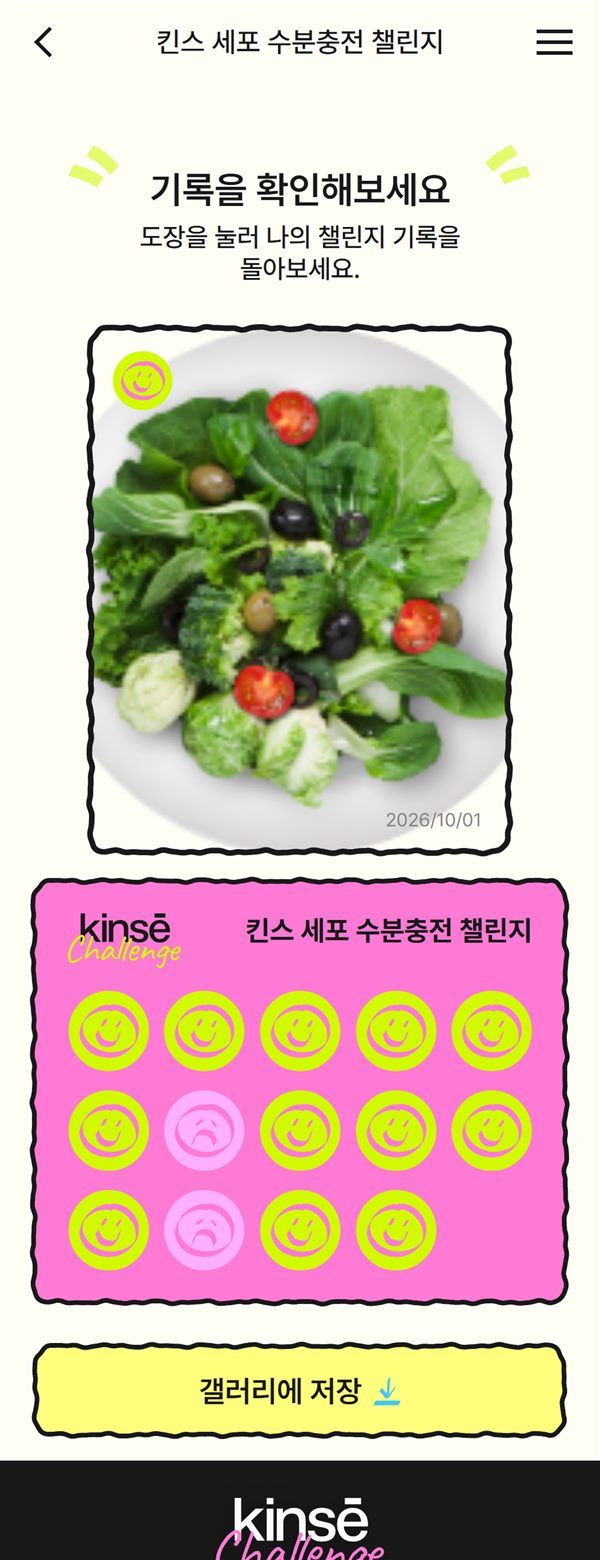
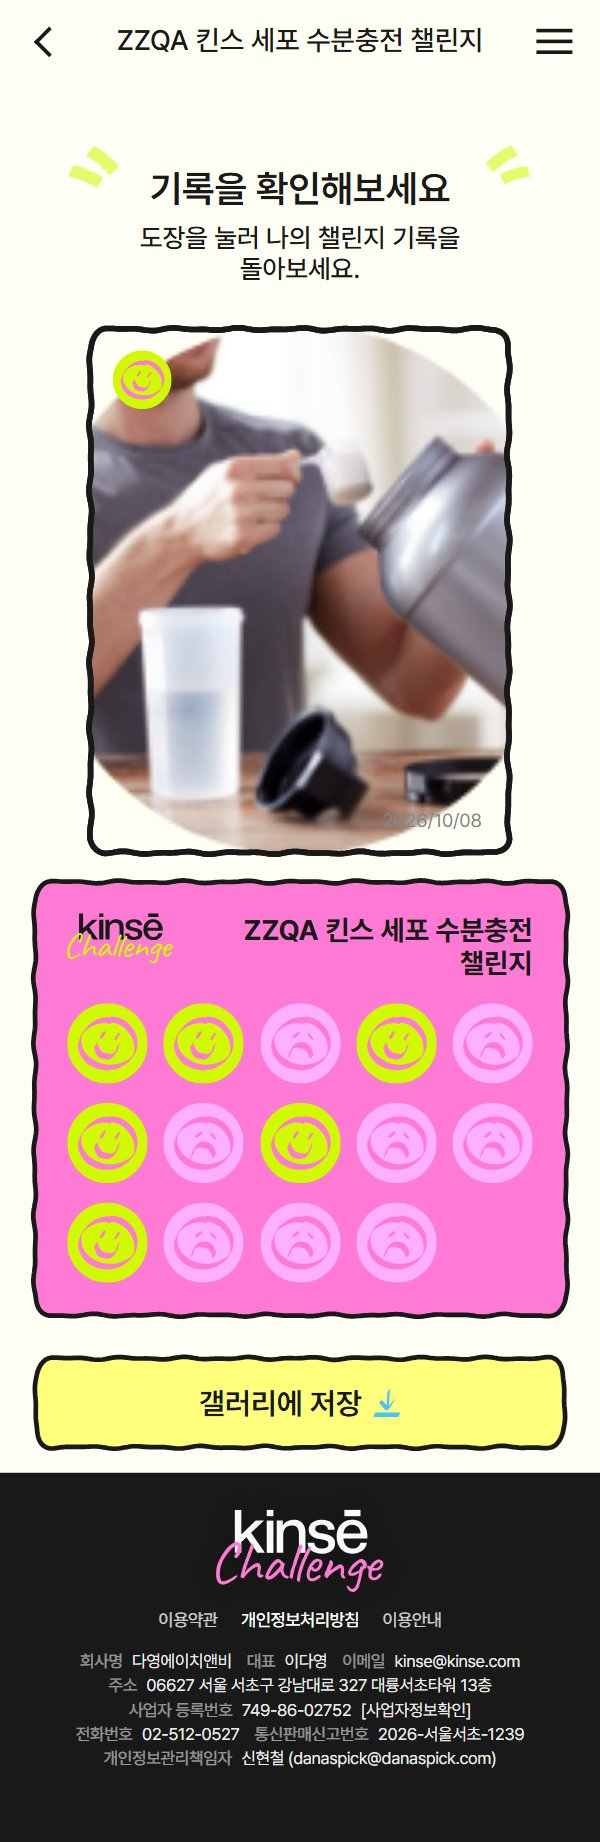
10/16 캡처 18장을 10/19 화면으로 다시 찍어 교체, 문서 날짜 10/19

diff --git a/server-screen-flow.html b/server-screen-flow.html
@@ -62,7 +62,7 @@
 <div class="wrap">
   <h1>메인 태스크별 화면 흐름 (서버)</h1>
   <p class="sub">지금 서버(FTP)에 작업된 사용자 화면을 <a href="figma-screen-flow.html">피그마 화면 흐름</a>과 같은 7단계로 정리 · 2026-10-19 서버 코드 기준</p>
-  <div class="info">글은 <b>10/19 서버 코드</b> 기준입니다. 화면 이미지는 <b>10/19 캡처</b>(비로그인 + 사용자 테스트 계정으로 로그인 — 10월 챌린지 참여중 · 오늘 인증 완료 상태)와, 그 계정으로 만들 수 없는 상태(신청 · 검수중 · 결과)는 <b>10/16 캡처</b>를 같이 썼어요. 10/16 캡처는 그 뒤 바뀐 문구가 있을 수 있어 글 쪽이 맞아요. 캡처는 화면을 열어 보기만 했고 신청 · 인증 · 답변 저장은 하지 않았어요. 피그마와 다른 점은 각 단계의 빨간 상자에 모았고, 자세한 표는 <a href="figma-server-compare.html">피그마 ↔ 서버 비교</a>에 있어요.</div>
+  <div class="info">글은 <b>10/19 서버 코드</b> 기준입니다. 화면 이미지는 모두 <b>10/19 캡처</b>예요 — 비로그인 · 사용자 테스트 계정, 그리고 신청 · 진행 · 검수중 · 결과 상태는 테스트 일정(이름 앞 ZZQA)을 잠깐 만들어 찍고 지웠어요. 피그마와 다른 점은 각 단계의 빨간 상자에 모았고, 자세한 표는 <a href="figma-server-compare.html">피그마 ↔ 서버 비교</a>에 있어요.</div>
 
   <nav class="toc">
     <a href="#s1">1. 체크리스트</a><a href="#s2">2. 참여 전</a><a href="#s3">3. 신청 후·시작 전</a><a href="#s4">4. 진행</a><a href="#s5">5. 검수중</a><a href="#s6">6. 결과 발표</a><a href="#s7">7. 종료</a><a href="#state">상태 규칙</a>
@@ -142,11 +142,11 @@
     <figure data-src="img/srv/list.jpg"><figcaption>챌린지 목록<small>비로그인 · 10/19</small></figcaption></figure>
     <figure data-src="img/srv/u_list.jpg"><figcaption>챌린지 목록<small>로그인 (띠 없음) · 10/19</small></figcaption></figure>
     <figure data-src="img/srv/u_menu.jpg"><figcaption>햄버거 메뉴<small>로그인 · 10/19</small></figcaption></figure>
-    <figure data-src="img/v_apply.jpg"><figcaption>상세 · 신청 가능<small>챌린지 신청하기 · 10/16</small></figcaption></figure>
-    <figure data-src="img/v_apply_out.jpg"><figcaption>상세 · 비로그인<small>로그인 후 신청하기 · 10/16</small></figcaption></figure>
-    <figure data-src="img/v_missed.jpg"><figcaption>상세 · 신청 못 함<small>신청 기간이 종료됐어요 · 10/16</small></figcaption></figure>
-    <figure data-src="img/apply_form.jpg"><figcaption>챌린지 신청하기<small>10/16</small></figcaption></figure>
-    <figure data-src="img/apply_done.jpg"><figcaption>신청 완료<small>10/16</small></figcaption></figure>
+    <figure data-src="img/v_apply.jpg"><figcaption>상세 · 신청 가능<small>챌린지 신청하기 · 10/19</small></figcaption></figure>
+    <figure data-src="img/v_apply_out.jpg"><figcaption>상세 · 비로그인<small>로그인 후 신청하기 · 10/19</small></figcaption></figure>
+    <figure data-src="img/v_missed.jpg"><figcaption>상세 · 신청 못 함<small>신청 기간이 종료됐어요 · 10/19</small></figcaption></figure>
+    <figure data-src="img/apply_form.jpg"><figcaption>챌린지 신청하기<small>10/19</small></figcaption></figure>
+    <figure data-src="img/apply_done.jpg"><figcaption>신청 완료<small>10/19</small></figcaption></figure>
   </div>
 
   <h2 id="s3"><span class="no">3</span>챌린지 신청 후, 시작 전</h2>
@@ -163,8 +163,8 @@
     </ul></div>
   </div>
   <div class="shots">
-    <figure data-src="img/v_applied.jpg"><figcaption>상세 · 신청 후 시작 전<small>D-3 · 10/16</small></figcaption></figure>
-    <figure data-src="img/my_challenge.jpg"><figcaption>나의 챌린지<small>배지 진행예정 · 진행중 · 결과발표 · 10/16</small></figcaption></figure>
+    <figure data-src="img/v_applied.jpg"><figcaption>상세 · 신청 후 시작 전<small>D-8 · 10/19</small></figcaption></figure>
+    <figure data-src="img/my_challenge.jpg"><figcaption>나의 챌린지<small>배지 진행예정 · 진행중 · 결과대기중 · 결과발표 · 10/19</small></figcaption></figure>
   </div>
 
   <h2 id="s4"><span class="no">4</span>챌린지 진행</h2>
@@ -196,11 +196,11 @@
     <figure data-src="img/srv/u_my_challenge.jpg"><figcaption>나의 챌린지<small>진행중 · 종료 · 10/19</small></figcaption></figure>
     <figure data-src="img/srv/u_verify_2.jpg"><figcaption>인증하기<small>오늘 이미 올림 · 10/19</small></figcaption></figure>
     <figure data-src="img/srv/u_verify_2_stamp.jpg"><figcaption>인증하기 · 도장 누름<small>그날 사진 · 날짜 · 10/19</small></figcaption></figure>
-    <figure data-src="img/v_ing.jpg"><figcaption>상세 · 진행중<small>오늘 인증 전 · 10/16</small></figcaption></figure>
-    <figure data-src="img/v_ing_done.jpg"><figcaption>상세 · 진행중<small>오늘의 루틴 완료 · 10/16</small></figcaption></figure>
-    <figure data-src="img/verify_ing.jpg"><figcaption>인증하기<small>사진 올리기 전 · 10/16</small></figcaption></figure>
-    <figure data-src="img/verify_done.jpg"><figcaption>인증 완료<small>10/16</small></figcaption></figure>
-    <figure data-src="img/verify_today.jpg"><figcaption>인증하기<small>오늘 이미 올림 · 10/16</small></figcaption></figure>
+    <figure data-src="img/v_ing.jpg"><figcaption>상세 · 진행중<small>오늘 인증 전 · 10/19</small></figcaption></figure>
+    <figure data-src="img/v_ing_done.jpg"><figcaption>상세 · 진행중<small>오늘의 루틴 완료 · 10/19</small></figcaption></figure>
+    <figure data-src="img/verify_ing.jpg"><figcaption>인증하기<small>사진 올리기 전 · 10/19</small></figcaption></figure>
+    <figure data-src="img/verify_done.jpg"><figcaption>인증 완료<small>10/19</small></figcaption></figure>
+    <figure data-src="img/verify_today.jpg"><figcaption>인증하기<small>오늘 이미 올림 · 10/19</small></figcaption></figure>
   </div>
 
   <h2 id="s5"><span class="no">5</span>챌린지 진행 – 결과 확인중 (검수중)</h2>
@@ -216,8 +216,8 @@
     <div class="diff"><b>피그마와 다른 점</b><ul><li>인증하기 버튼 <q>인증 확인중이에요</q> ↔ <q>결과 대기중이에요</q> (퍼블대로)</li></ul></div>
   </div>
   <div class="shots">
-    <figure data-src="img/v_review.jpg"><figcaption>상세 · 검수중<small>10/16</small></figcaption></figure>
-    <figure data-src="img/verify_review.jpg"><figcaption>인증하기 · 검수중<small>결과 대기중이에요 · 10/16</small></figcaption></figure>
+    <figure data-src="img/v_review.jpg"><figcaption>상세 · 검수중<small>10/19</small></figcaption></figure>
+    <figure data-src="img/verify_review.jpg"><figcaption>인증하기 · 검수중<small>결과 대기중이에요 · 10/19</small></figcaption></figure>
   </div>
 
   <h2 id="s6"><span class="no">6</span>챌린지 진행 – 결과 발표</h2>
@@ -242,9 +242,9 @@
     </ul></div>
   </div>
   <div class="shots">
-    <figure data-src="img/result_ok.jpg"><figcaption>성공<small>10/16 (문구는 10/19에 바뀜)</small></figcaption></figure>
-    <figure data-src="img/result_fail.jpg"><figcaption>실패<small>10/16</small></figcaption></figure>
-    <figure data-src="img/record.jpg"><figcaption>내 기록 보기<small>10/16</small></figcaption></figure>
+    <figure data-src="img/result_ok.jpg"><figcaption>성공<small>10/19</small></figcaption></figure>
+    <figure data-src="img/result_fail.jpg"><figcaption>실패<small>10/19</small></figcaption></figure>
+    <figure data-src="img/record.jpg"><figcaption>내 기록 보기<small>10/19</small></figcaption></figure>
   </div>
 
   <h2 id="s7"><span class="no">7</span>챌린지 진행 – 결과 확인 이후 (종료)</h2>
@@ -262,7 +262,7 @@
   <div class="shots">
     <figure data-src="img/srv/view_end.jpg"><figcaption>상세 · 종료<small>비로그인 · 로그인 후 신청하기 · 10/19</small></figcaption></figure>
     <figure data-src="img/srv/u_view_1.jpg"><figcaption>상세 · 종료<small>참여했던 회원 · 10/19</small></figcaption></figure>
-    <figure data-src="img/v_end.jpg"><figcaption>상세 · 종료<small>10/16</small></figcaption></figure>
+    <figure data-src="img/v_end.jpg"><figcaption>상세 · 종료<small>10/19</small></figcaption></figure>
   </div>
 
   <h2 id="state">상태 규칙 한눈에</h2>

diff --git a/admin-user-logic.html b/admin-user-logic.html
@@ -54,7 +54,7 @@
 <body>
 <div class="wrap">
   <h1>킨스 챌린지 운영 흐름</h1>
-  <p class="sub">관리자가 하는 일과 회원에게 보이는 화면 · 2026-10-16 기준</p>
+  <p class="sub">관리자가 하는 일과 회원에게 보이는 화면 · 2026-10-19 기준</p>
 
   <h2>한눈에 보기</h2>
   <div class="flow">
@@ -206,7 +206,7 @@
   </table>
   <p class="tip">※ 마이페이지 '나의 챌린지'에는 진행중 / 진행예정 / 결과대기중 / 결과발표 / 종료 중 하나가 표시돼요.</p>
 
-  <p class="tip">아래는 지금 사이트의 실제 회원 화면이에요 (2026-10-16, 테스트 데이터로 캡처 후 데이터 삭제). 사진을 누르면 크게 볼 수 있어요.</p>
+  <p class="tip">아래는 지금 사이트의 실제 회원 화면이에요 (2026-10-19, 테스트 데이터로 캡처 후 데이터 삭제). 사진을 누르면 크게 볼 수 있어요.</p>
 
   <h3 class="shot-h">신청기간 전 · 신청기간</h3>
   <div class="shots">
@@ -218,12 +218,12 @@
 
   <h3 class="shot-h">신청 후 ~ 진행기간</h3>
   <div class="shots">
-    <figure><a href="img/v_applied.jpg" target="_blank"><img src="img/v_applied.jpg" alt="신청 후 시작 전 상세" loading="lazy"></a><figcaption><b>신청 후 · 시작 전</b>"곧 시작돼요 D-3" · 버튼 "신청 완료"</figcaption></figure>
-    <figure><a href="img/v_ing.jpg" target="_blank"><img src="img/v_ing.jpg" alt="진행중 오늘 인증 전 상세" loading="lazy"></a><figcaption><b>진행중 · 오늘 인증 전</b>"오늘의 챌린지 시작!" 진행바 4/14 · 버튼 "사진 등록하고 인증하기"</figcaption></figure>
+    <figure><a href="img/v_applied.jpg" target="_blank"><img src="img/v_applied.jpg" alt="신청 후 시작 전 상세" loading="lazy"></a><figcaption><b>신청 후 · 시작 전</b>"곧 시작돼요 D-8" · 버튼 "신청 완료"</figcaption></figure>
+    <figure><a href="img/v_ing.jpg" target="_blank"><img src="img/v_ing.jpg" alt="진행중 오늘 인증 전 상세" loading="lazy"></a><figcaption><b>진행중 · 오늘 인증 전</b>"오늘의 챌린지 시작!" 진행바 5/14 · 버튼 "사진 등록하고 인증하기"</figcaption></figure>
     <figure><a href="img/verify_ing.jpg" target="_blank"><img src="img/verify_ing.jpg" alt="사진 인증 화면" loading="lazy"></a><figcaption><b>사진 인증</b>사진 칸 + 도장판 (인증한 날 · 놓친 날 · 반려된 날 · 오늘)</figcaption></figure>
     <figure><a href="img/verify_done.jpg" target="_blank"><img src="img/verify_done.jpg" alt="인증 완료" loading="lazy"></a><figcaption><b>인증 완료</b>"사진 인증 완료했어요!" + 오늘 사진 + 도장판</figcaption></figure>
     <figure><a href="img/verify_today.jpg" target="_blank"><img src="img/verify_today.jpg" alt="오늘 인증 후 인증 화면" loading="lazy"></a><figcaption><b>오늘 올린 뒤 인증 화면</b>사진 칸 "지금은 인증할 수 없어요" · 버튼 "오늘의 루틴 완료 :-)"</figcaption></figure>
-    <figure><a href="img/v_ing_done.jpg" target="_blank"><img src="img/v_ing_done.jpg" alt="진행중 오늘 인증 완료 상세" loading="lazy"></a><figcaption><b>진행중 · 오늘 인증 완료</b>카드 "오늘의 루틴 완료 :-)" 5/14</figcaption></figure>
+    <figure><a href="img/v_ing_done.jpg" target="_blank"><img src="img/v_ing_done.jpg" alt="진행중 오늘 인증 완료 상세" loading="lazy"></a><figcaption><b>진행중 · 오늘 인증 완료</b>카드 "오늘의 루틴 완료 :-)" 6/14</figcaption></figure>
     <figure><a href="img/v_missed.jpg" target="_blank"><img src="img/v_missed.jpg" alt="진행중 미신청 상세" loading="lazy"></a><figcaption><b>진행중 · 신청 안 한 회원</b>"신청 기간이 종료됐어요." · 버튼 "지금은 신청할 수 없어요"</figcaption></figure>
   </div>
 
